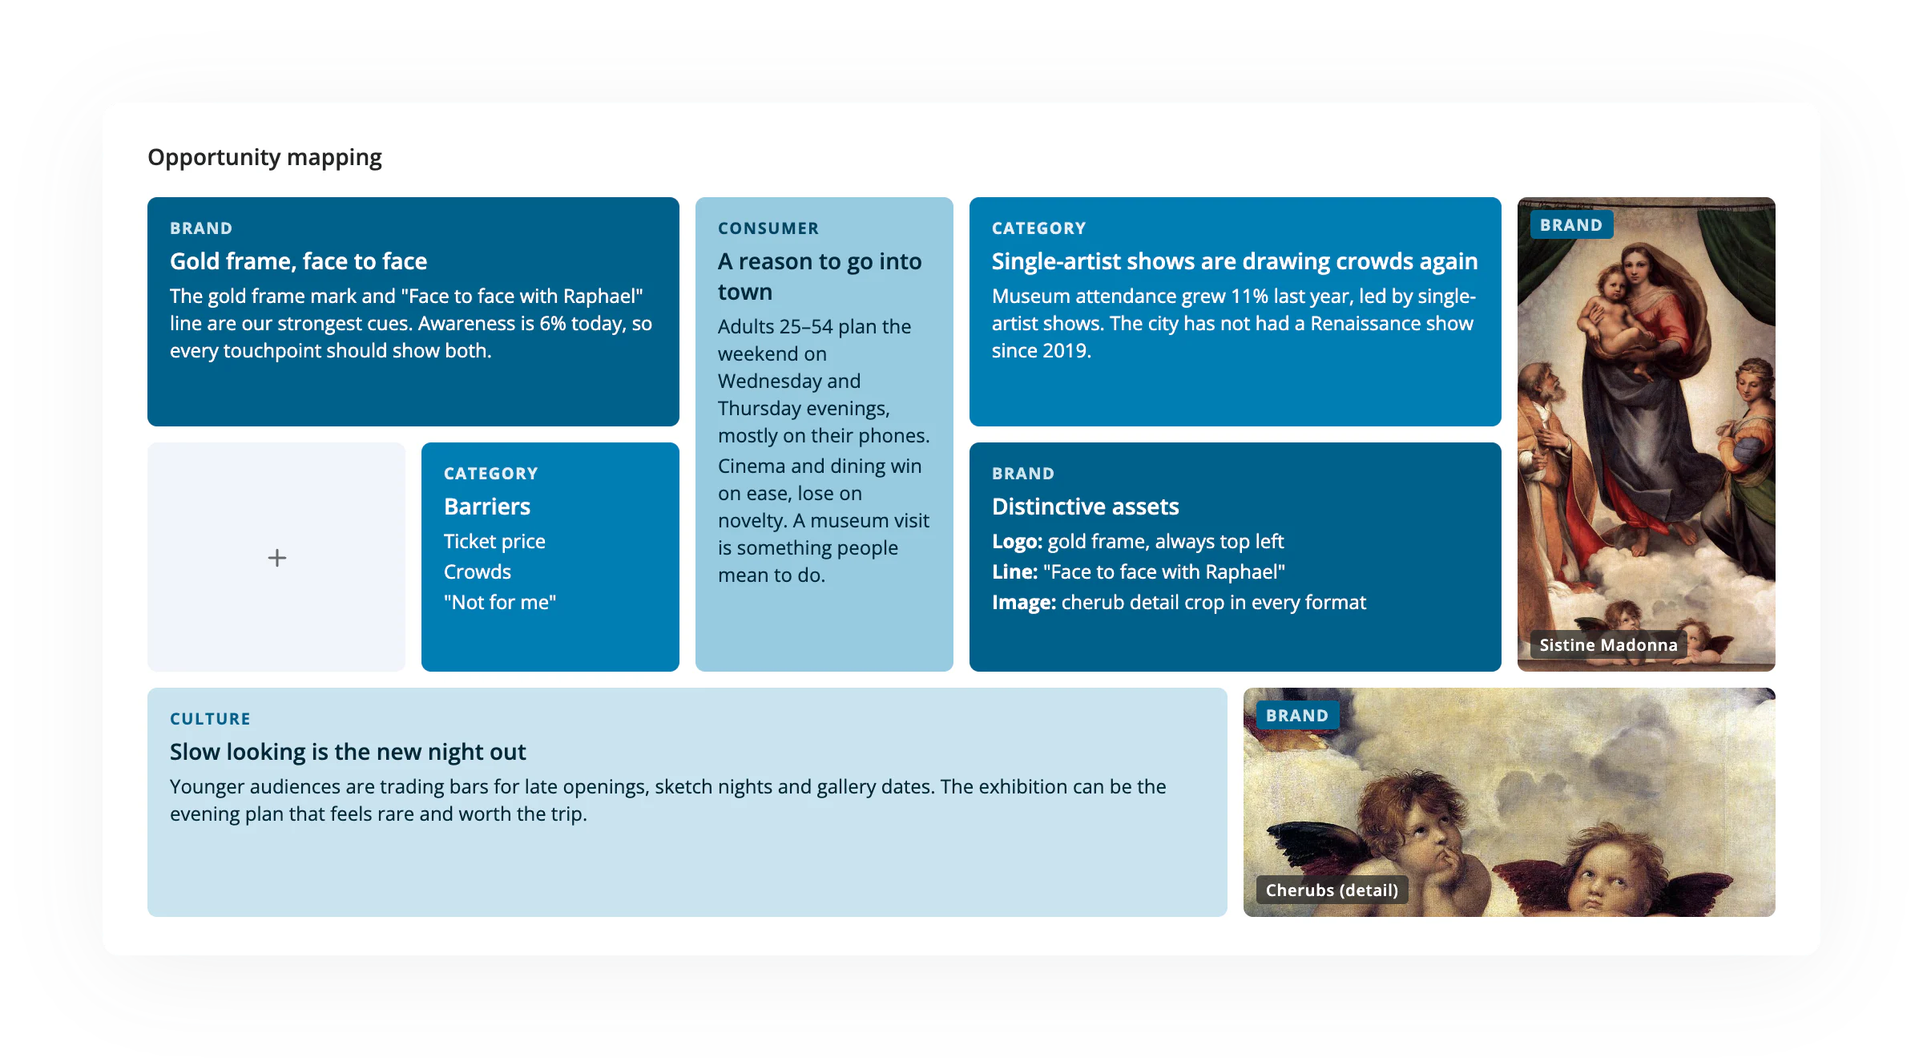
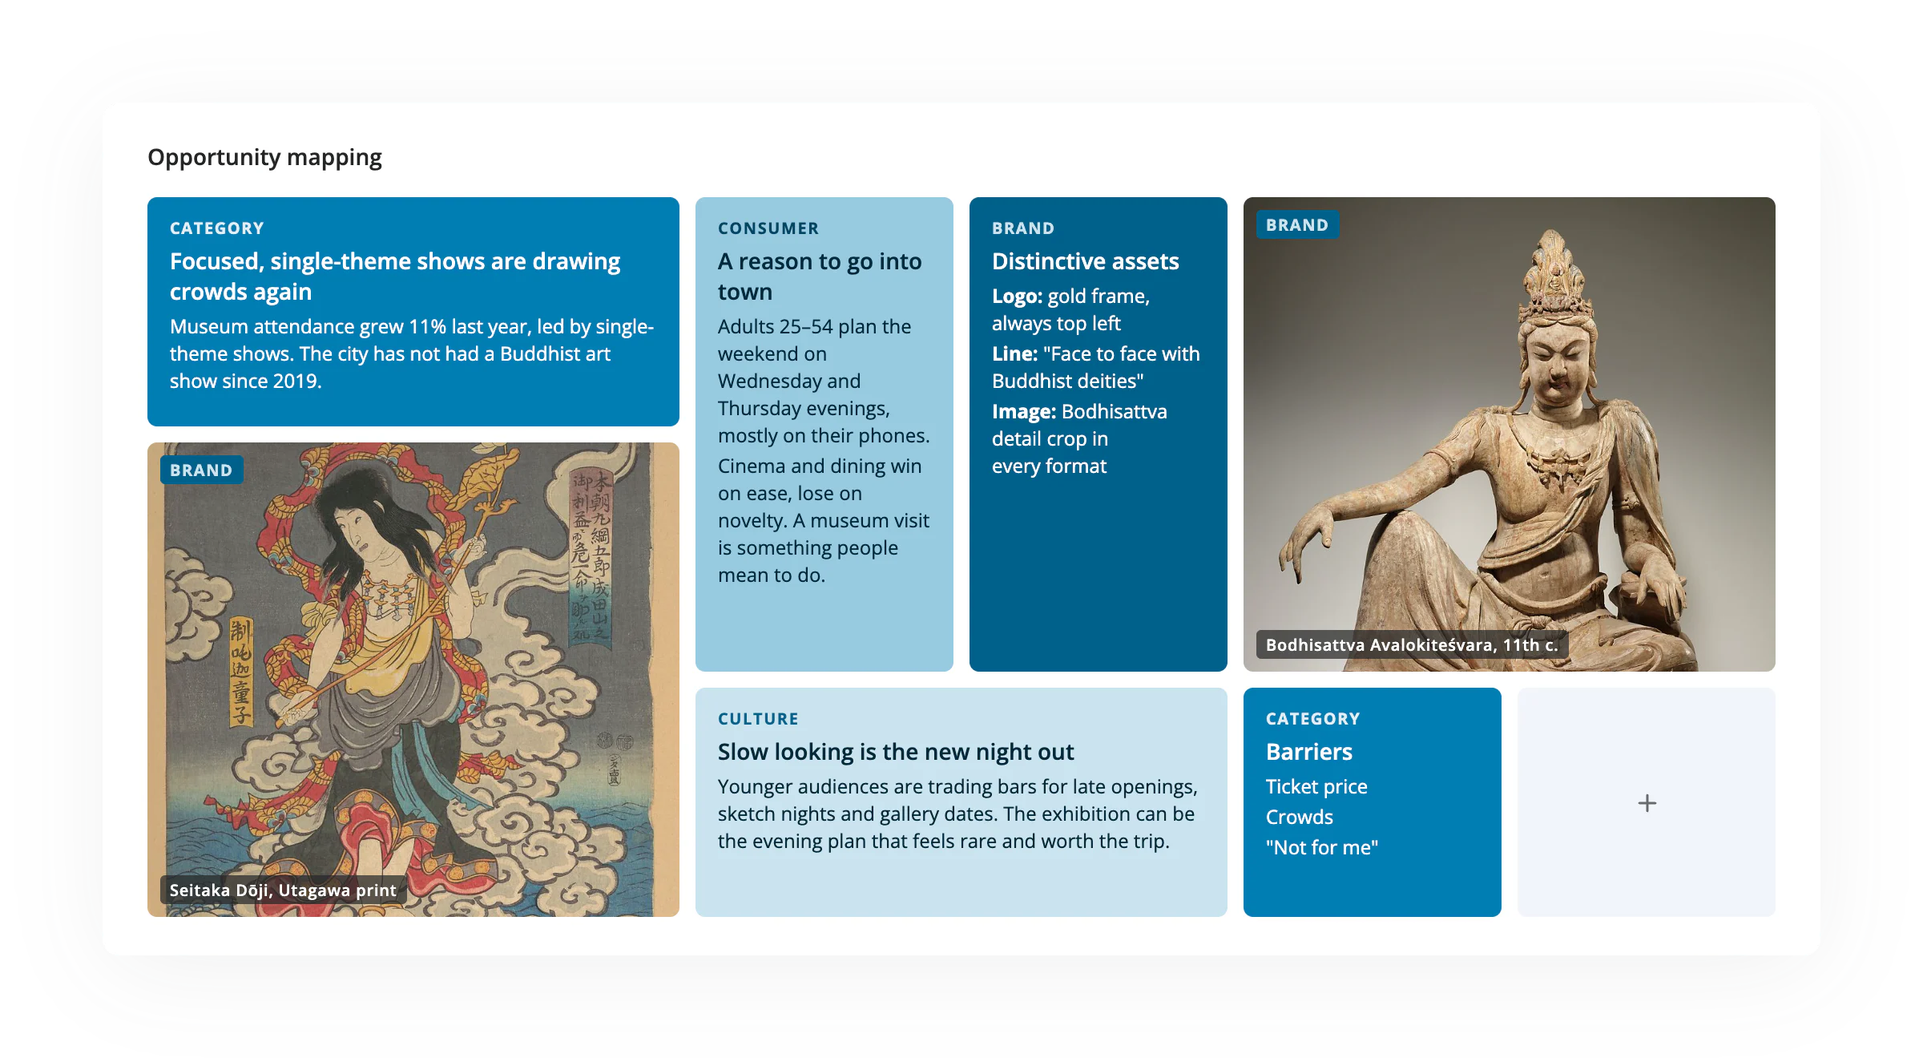
Switch the new client example from a Raphael to a Buddhist art exhibition
Updates the copy in CaseModules and the new-client screens, replaces the
two Opportunity images with the bodhisattva images and rearranges that
grid, and recaptures the screens. Restores the compact formatting of the
attention and opportunity sources and turns off HTML format-on-save so
an editor stops rewriting them.

diff --git a/design/case2-screens/new-client-opportunity.dc.html b/design/case2-screens/new-client-opportunity.dc.html
@@ -12,15 +12,14 @@
 <div style="position:relative;width:100%;height:100%;background:#fff;border-radius:10px;box-shadow:0 10px 60px -5px rgba(59,62,63,.08);overflow:hidden;padding:24px 28px;display:flex;flex-direction:column;gap:16px">
 <span style="font-size:14px;font-weight:600;color:#242526">Opportunity mapping</span>
 <div style="flex:1;min-height:0;display:grid;grid-template-columns:repeat(6,minmax(0,1fr));grid-template-rows:repeat(3,minmax(0,1fr));gap:10px">
-<div style="grid-area:1 / 1 / 2 / 3;background:#00618B;color:#fff;border-radius:6px;padding:12px 14px;display:flex;flex-direction:column;gap:4px;overflow:hidden"><span style="font-size:10px;font-weight:700;letter-spacing:.08em;text-transform:uppercase;color:#CAE4EF">Brand</span><span style="font-size:14px;font-weight:600;line-height:19px">Gold frame, face to face</span><div style="font-size:12px;line-height:17px;text-wrap:pretty;display:flex;flex-direction:column;gap:2px"><span>The gold frame mark and "Face to face with Raphael" line are our strongest cues. Awareness is 6% today, so every touchpoint should show both.</span></div></div>
 <div style="grid-area:1 / 3 / 3 / 4;background:#98CAE0;color:#00293A;border-radius:6px;padding:12px 14px;display:flex;flex-direction:column;gap:4px;overflow:hidden"><span style="font-size:10px;font-weight:700;letter-spacing:.08em;text-transform:uppercase;color:#004563">Consumer</span><span style="font-size:14px;font-weight:600;line-height:19px">A reason to go into town</span><div style="font-size:12px;line-height:17px;text-wrap:pretty;display:flex;flex-direction:column;gap:2px"><span>Adults 25–54 plan the weekend on Wednesday and Thursday evenings, mostly on their phones.</span><span>Cinema and dining win on ease, lose on novelty. A museum visit is something people mean to do.</span></div></div>
-<div style="grid-area:1 / 4 / 2 / 6;background:#007DB3;color:#fff;border-radius:6px;padding:12px 14px;display:flex;flex-direction:column;gap:4px;overflow:hidden"><span style="font-size:10px;font-weight:700;letter-spacing:.08em;text-transform:uppercase;color:#E2EFF5">Category</span><span style="font-size:14px;font-weight:600;line-height:19px">Single-artist shows are drawing crowds again</span><div style="font-size:12px;line-height:17px;text-wrap:pretty;display:flex;flex-direction:column;gap:2px"><span>Museum attendance grew 11% last year, led by single-artist shows. The city has not had a Renaissance show since 2019.</span></div></div>
-<div style="grid-area:1 / 6 / 3 / 7;position:relative;border-radius:6px;overflow:hidden;background:#F1F5FA"><img src="https://commons.wikimedia.org/wiki/Special:FilePath/Raffaello,_madonna_sistina_01.jpg?width=800" alt="Sistine Madonna" style="position:absolute;inset:0;width:100%;height:100%;object-fit:cover;object-position:center 30%"><span style="position:absolute;left:8px;top:8px;padding:2px 6px;border-radius:3px;background:#00618B;color:#CAE4EF;font-size:10px;font-weight:700;letter-spacing:.08em;text-transform:uppercase">Brand</span><span style="position:absolute;left:8px;bottom:8px;padding:2px 6px;border-radius:3px;background:rgba(36,37,38,.7);color:#fff;font-size:10px;font-weight:600;letter-spacing:.04em">Sistine Madonna</span></div>
-<div style="grid-area:2 / 1 / 3 / 2;background:#F1F5FA;border-radius:6px;display:flex;align-items:center;justify-content:center"><svg width="14" height="14" viewBox="0 0 14 14" fill="none" stroke="#686A6C" stroke-width="1.4" stroke-linecap="round"><path d="M7 2v10M2 7h10"></path></svg></div>
-<div style="grid-area:2 / 2 / 3 / 3;background:#007DB3;color:#fff;border-radius:6px;padding:12px 14px;display:flex;flex-direction:column;gap:4px;overflow:hidden"><span style="font-size:10px;font-weight:700;letter-spacing:.08em;text-transform:uppercase;color:#E2EFF5">Category</span><span style="font-size:14px;font-weight:600;line-height:19px">Barriers</span><div style="font-size:12px;line-height:17px;text-wrap:pretty;display:flex;flex-direction:column;gap:2px"><span>Ticket price</span><span>Crowds</span><span>"Not for me"</span></div></div>
-<div style="grid-area:2 / 4 / 3 / 6;background:#00618B;color:#fff;border-radius:6px;padding:12px 14px;display:flex;flex-direction:column;gap:4px;overflow:hidden"><span style="font-size:10px;font-weight:700;letter-spacing:.08em;text-transform:uppercase;color:#CAE4EF">Brand</span><span style="font-size:14px;font-weight:600;line-height:19px">Distinctive assets</span><div style="font-size:12px;line-height:17px;text-wrap:pretty;display:flex;flex-direction:column;gap:2px"><span><span style="font-weight:700">Logo:</span> gold frame, always top left</span><span><span style="font-weight:700">Line:</span> "Face to face with Raphael"</span><span><span style="font-weight:700">Image:</span> cherub detail crop in every format</span></div></div>
-<div style="grid-area:3 / 1 / 4 / 5;background:#CAE4EF;color:#00293A;border-radius:6px;padding:12px 14px;display:flex;flex-direction:column;gap:4px;overflow:hidden"><span style="font-size:10px;font-weight:700;letter-spacing:.08em;text-transform:uppercase;color:#00618B">Culture</span><span style="font-size:14px;font-weight:600;line-height:19px">Slow looking is the new night out</span><div style="font-size:12px;line-height:17px;text-wrap:pretty;display:flex;flex-direction:column;gap:2px"><span>Younger audiences are trading bars for late openings, sketch nights and gallery dates. The exhibition can be the evening plan that feels rare and worth the trip.</span></div></div>
-<div style="grid-area:3 / 5 / 4 / 7;position:relative;border-radius:6px;overflow:hidden;background:#F1F5FA"><img src="https://commons.wikimedia.org/wiki/Special:FilePath/Raffaello,_madonna_sistina_03.jpg?width=800" alt="Cherubs (detail)" style="position:absolute;inset:0;width:100%;height:100%;object-fit:cover;object-position:center 40%"><span style="position:absolute;left:8px;top:8px;padding:2px 6px;border-radius:3px;background:#00618B;color:#CAE4EF;font-size:10px;font-weight:700;letter-spacing:.08em;text-transform:uppercase">Brand</span><span style="position:absolute;left:8px;bottom:8px;padding:2px 6px;border-radius:3px;background:rgba(36,37,38,.7);color:#fff;font-size:10px;font-weight:600;letter-spacing:.04em">Cherubs (detail)</span></div>
+<div style="grid-area:1 / 1 / 2 / 3;background:#007DB3;color:#fff;border-radius:6px;padding:12px 14px;display:flex;flex-direction:column;gap:4px;overflow:hidden"><span style="font-size:10px;font-weight:700;letter-spacing:.08em;text-transform:uppercase;color:#E2EFF5">Category</span><span style="font-size:14px;font-weight:600;line-height:19px">Focused, single-theme shows are drawing crowds again</span><div style="font-size:12px;line-height:17px;text-wrap:pretty;display:flex;flex-direction:column;gap:2px"><span>Museum attendance grew 11% last year, led by single-theme shows. The city has not had a Buddhist art show since 2019.</span></div></div>
+<div style="grid-area:1 / 5 / 3 / 7;position:relative;border-radius:6px;overflow:hidden;background:#F1F5FA"><img src="../../public/Bodhisattva_11thc.jpeg" alt="Bodhisattva Avalokiteśvara, 11th century" style="position:absolute;inset:0;width:100%;height:100%;object-fit:cover;object-position:center 40%"><span style="position:absolute;left:8px;top:8px;padding:2px 6px;border-radius:3px;background:#00618B;color:#CAE4EF;font-size:10px;font-weight:700;letter-spacing:.08em;text-transform:uppercase">Brand</span><span style="position:absolute;left:8px;bottom:8px;padding:2px 6px;border-radius:3px;background:rgba(36,37,38,.7);color:#fff;font-size:10px;font-weight:600;letter-spacing:.04em">Bodhisattva Avalokiteśvara, 11th c.</span></div>
+<div style="grid-area:3 / 6 / 4 / 7;background:#F1F5FA;border-radius:6px;display:flex;align-items:center;justify-content:center"><svg width="14" height="14" viewBox="0 0 14 14" fill="none" stroke="#686A6C" stroke-width="1.4" stroke-linecap="round"><path d="M7 2v10M2 7h10"></path></svg></div>
+<div style="grid-area:3 / 5 / 4 / 6;background:#007DB3;color:#fff;border-radius:6px;padding:12px 14px;display:flex;flex-direction:column;gap:4px;overflow:hidden"><span style="font-size:10px;font-weight:700;letter-spacing:.08em;text-transform:uppercase;color:#E2EFF5">Category</span><span style="font-size:14px;font-weight:600;line-height:19px">Barriers</span><div style="font-size:12px;line-height:17px;text-wrap:pretty;display:flex;flex-direction:column;gap:2px"><span>Ticket price</span><span>Crowds</span><span>"Not for me"</span></div></div>
+<div style="grid-area:1 / 4 / 3 / 5;background:#00618B;color:#fff;border-radius:6px;padding:12px 14px;display:flex;flex-direction:column;gap:4px;overflow:hidden"><span style="font-size:10px;font-weight:700;letter-spacing:.08em;text-transform:uppercase;color:#CAE4EF">Brand</span><span style="font-size:14px;font-weight:600;line-height:19px">Distinctive assets</span><div style="font-size:12px;line-height:17px;text-wrap:pretty;display:flex;flex-direction:column;gap:2px"><span><span style="font-weight:700">Logo:</span> gold frame, always top left</span><span><span style="font-weight:700">Line:</span> "Face to face with Buddhist deities"</span><span><span style="font-weight:700">Image:</span> Bodhisattva detail crop in every format</span></div></div>
+<div style="grid-area:3 / 3 / 4 / 5;background:#CAE4EF;color:#00293A;border-radius:6px;padding:12px 14px;display:flex;flex-direction:column;gap:4px;overflow:hidden"><span style="font-size:10px;font-weight:700;letter-spacing:.08em;text-transform:uppercase;color:#00618B">Culture</span><span style="font-size:14px;font-weight:600;line-height:19px">Slow looking is the new night out</span><div style="font-size:12px;line-height:17px;text-wrap:pretty;display:flex;flex-direction:column;gap:2px"><span>Younger audiences are trading bars for late openings, sketch nights and gallery dates. The exhibition can be the evening plan that feels rare and worth the trip.</span></div></div>
+<div style="grid-area:2 / 1 / 4 / 3;position:relative;border-radius:6px;overflow:hidden;background:#F1F5FA"><img src="../../public/Bodhisattva_utagawa.jpeg" alt="Bodhisattva, Utagawa print" style="position:absolute;inset:0;width:100%;height:100%;object-fit:cover;object-position:center 25%"><span style="position:absolute;left:8px;top:8px;padding:2px 6px;border-radius:3px;background:#00618B;color:#CAE4EF;font-size:10px;font-weight:700;letter-spacing:.08em;text-transform:uppercase">Brand</span><span style="position:absolute;left:8px;bottom:8px;padding:2px 6px;border-radius:3px;background:rgba(36,37,38,.7);color:#fff;font-size:10px;font-weight:600;letter-spacing:.04em">Seitaka Dōji, Utagawa print</span></div>
 </div>
 </div></div>
 </x-dc>

diff --git a/design/case2-screens/new-client-ideation.dc.html b/design/case2-screens/new-client-ideation.dc.html
@@ -13,7 +13,7 @@
 <div style="padding:24px 28px;display:flex;flex-direction:column;gap:18px">
 <span style="font-size:14px;font-weight:600">Campaign brief</span>
 <div style="display:grid;grid-template-columns:1.25fr 1fr;gap:24px">
-<div style="display:flex;flex-direction:column;gap:6px"><span style="display:flex;align-items:center;gap:4px;font-size:12px;font-weight:600;color:#464849">Goal</span><div style="flex:1;background:#fff;border:1px solid #E4E8ED;border-radius:6px;color:#242526;padding:8px 12px;font-size:13px;line-height:19px;text-wrap:pretty">Make the Raphael exhibition the spring show people book early. Only 6% of the city knows it is coming, so we build memory before the March 6 opening, then turn it into ticket sales across the 12-week run.</div></div>
+<div style="display:flex;flex-direction:column;gap:6px"><span style="display:flex;align-items:center;gap:4px;font-size:12px;font-weight:600;color:#464849">Goal</span><div style="flex:1;background:#fff;border:1px solid #E4E8ED;border-radius:6px;color:#242526;padding:8px 12px;font-size:13px;line-height:19px;text-wrap:pretty">Make the Buddhist art exhibition the spring show people book early. Only 6% of the city knows it is coming, so we build memory before the March 6 opening, then turn it into ticket sales across the 12-week run.</div></div>
 <div style="display:grid;grid-template-columns:1fr 1fr;gap:24px">
 <div style="grid-column:1 / -1;display:flex;flex-direction:column;gap:6px"><span style="display:flex;align-items:center;gap:4px;font-size:12px;font-weight:600;color:#464849">Core audience</span><div style="background:#fff;height:36px;display:flex;align-items:center;border:1px solid #E4E8ED;border-radius:6px;color:#242526;padding:0 12px;font-size:13px;line-height:19px">Culture-curious adults 25–54 within 90 minutes of the museum</div></div>
 <div style="display:flex;flex-direction:column;gap:6px"><span style="display:flex;align-items:center;gap:4px;font-size:12px;font-weight:600;color:#464849">Awareness KPI</span><div style="background:#fff;height:36px;display:flex;align-items:center;border:1px solid #E4E8ED;border-radius:6px;color:#242526;padding:0 12px;font-size:13px;line-height:19px">6% → 25% by opening</div></div>
@@ -36,8 +36,8 @@
 <div style="display:flex;align-items:center;gap:16px"><span style="font-size:14px;font-weight:600">Distinctive assets</span><span style="display:flex;align-items:center;gap:6px;height:28px;padding:0 12px;font-size:13px;font-weight:600;color:#00618B;background:#fff;border:1px solid #00618B;border-radius:6px"><svg width="10" height="10" viewBox="0 0 10 10" fill="none" stroke="#00618B" stroke-width="1.5"><path d="M5 1v8M1 5h8"></path></svg>Add asset</span></div>
 <div style="display:flex;flex-wrap:wrap;gap:10px">
 <span style="display:flex;align-items:center;gap:8px;height:32px;padding:0 8px 0 12px;background:#CAE4EF;border:1px solid #CAE4EF;border-radius:6px;font-size:13px;color:#00618B">Gold frame mark<svg width="16" height="16" viewBox="0 0 16 16" fill="none" stroke="#00618B" stroke-width="1.4" stroke-linecap="round"><circle cx="8" cy="8" r="6.5"></circle><path d="M5.8 5.8l4.4 4.4M10.2 5.8l-4.4 4.4"></path></svg></span>
-<span style="display:flex;align-items:center;gap:8px;height:32px;padding:0 8px 0 12px;background:#CAE4EF;border:1px solid #CAE4EF;border-radius:6px;font-size:13px;color:#00618B">"Face to face with Raphael" line<svg width="16" height="16" viewBox="0 0 16 16" fill="none" stroke="#00618B" stroke-width="1.4" stroke-linecap="round"><circle cx="8" cy="8" r="6.5"></circle><path d="M5.8 5.8l4.4 4.4M10.2 5.8l-4.4 4.4"></path></svg></span>
-<span style="display:flex;align-items:center;gap:8px;height:32px;padding:0 8px 0 12px;background:#CAE4EF;border:1px solid #CAE4EF;border-radius:6px;font-size:13px;color:#00618B">Cherub detail crop<svg width="16" height="16" viewBox="0 0 16 16" fill="none" stroke="#00618B" stroke-width="1.4" stroke-linecap="round"><circle cx="8" cy="8" r="6.5"></circle><path d="M5.8 5.8l4.4 4.4M10.2 5.8l-4.4 4.4"></path></svg></span>
+<span style="display:flex;align-items:center;gap:8px;height:32px;padding:0 8px 0 12px;background:#CAE4EF;border:1px solid #CAE4EF;border-radius:6px;font-size:13px;color:#00618B">"Face to face with the Bodhisattva" line<svg width="16" height="16" viewBox="0 0 16 16" fill="none" stroke="#00618B" stroke-width="1.4" stroke-linecap="round"><circle cx="8" cy="8" r="6.5"></circle><path d="M5.8 5.8l4.4 4.4M10.2 5.8l-4.4 4.4"></path></svg></span>
+<span style="display:flex;align-items:center;gap:8px;height:32px;padding:0 8px 0 12px;background:#CAE4EF;border:1px solid #CAE4EF;border-radius:6px;font-size:13px;color:#00618B">Bodhisattva detail crop<svg width="16" height="16" viewBox="0 0 16 16" fill="none" stroke="#00618B" stroke-width="1.4" stroke-linecap="round"><circle cx="8" cy="8" r="6.5"></circle><path d="M5.8 5.8l4.4 4.4M10.2 5.8l-4.4 4.4"></path></svg></span>
 </div></div>
 </div></div>
 </div></div>

diff --git a/design/case2-screens/new-client-channel.dc.html b/design/case2-screens/new-client-channel.dc.html
@@ -44,7 +44,7 @@
 </div>
 <div style="display:flex;flex-direction:column;gap:6px"><span style="display:flex;align-items:center;gap:4px;font-size:12px;font-weight:600;color:#464849">Flight</span><div style="background:#fff;height:36px;display:flex;align-items:center;border:1px solid #E4E8ED;border-radius:6px;color:#242526;padding:0 12px;font-size:13px;line-height:19px">Jan 25 – Mar 5, 2027</div></div>
 <div style="display:flex;flex-direction:column;gap:6px"><span style="display:flex;align-items:center;gap:4px;font-size:12px;font-weight:600;color:#464849">Channel idea</span><div style="background:#fff;border:1px solid #E4E8ED;border-radius:6px;color:#242526;padding:8px 12px;font-size:13px;line-height:19px;text-wrap:pretty">Digital billboards at transit stops and near cinemas and restaurants, Wednesday to Friday evenings, when people plan their weekend. Builds memory with a countdown to the March 6 opening.</div></div>
-<div style="display:flex;flex-direction:column;gap:6px"><span style="display:flex;align-items:center;gap:4px;font-size:12px;font-weight:600;color:#464849">Assets required</span><div style="background:#fff;border:1px solid #E4E8ED;border-radius:6px;color:#242526;padding:8px 12px;font-size:13px;line-height:19px;text-wrap:pretty">Gold frame mark, cherub detail crop and "Face to face with Raphael" line, static and 6s motion.</div></div>
+<div style="display:flex;flex-direction:column;gap:6px"><span style="display:flex;align-items:center;gap:4px;font-size:12px;font-weight:600;color:#464849">Assets required</span><div style="background:#fff;border:1px solid #E4E8ED;border-radius:6px;color:#242526;padding:8px 12px;font-size:13px;line-height:19px;text-wrap:pretty">Gold frame mark, Bodhisattva detail crop and "Face to face with the Bodhisattva" line, static and 6s motion.</div></div>
 </div><div style="margin-top:auto;display:flex;justify-content:flex-end;gap:8px;padding:10px 20px;border-top:1px solid #F1F5FA"><span style="display:flex;align-items:center;height:32px;padding:0 16px;font-size:13px;font-weight:600;color:#00618B;background:transparent;border:1px solid transparent;border-radius:6px">Cancel</span><span style="display:flex;align-items:center;height:32px;padding:0 20px;font-size:13px;font-weight:600;color:#fff;background:#00618B;border:1px solid #00618B;border-radius:6px">Save</span></div></div>
 </div></div>
 </x-dc>

diff --git a/components/CaseModules.tsx b/components/CaseModules.tsx
@@ -67,7 +67,7 @@ const CLIENT_VIEW = {
 function steps(
   front: string,
   prefix: string,
-  mods: [ModuleKey, string][],
+  mods: [ModuleKey, string][]
 ): CaseStep[] {
   return [
     { name: front, ...CLIENT_VIEW },
@@ -85,7 +85,7 @@ const CLIENTS: Record<"new" | "return", Client> = {
   new: {
     label: "Sales' demo",
     eyebrow: "For new client",
-    title: "Raphael exhibition campaign Spring 2027",
+    title: "Buddhist art exhibition campaign Spring 2027",
     desc: "Sales walks a prospective museum client through a sample exhibition campaign, from brief to channel mix.",
     open: 2,
     steps: steps("New client workflow", "new-client", [
@@ -141,12 +141,7 @@ const ARTBOARD = 1384; // the frame's width at the 1440 column
  *  down to the result label's start. The centre comes from the layout rule
  *  (collapsed 84px, open tab takes the rest), so the path lands where the
  *  flex transition ends and CSS animates `d` there. */
-function desktopFlow(
-  w: number,
-  ex: number,
-  n: number,
-  active: number,
-): Curve {
+function desktopFlow(w: number, ex: number, n: number, active: number): Curve {
   const open = w - (n - 1) * TAB;
   const cx = n ? Math.max(active, 0) * TAB + open / 2 : w / 2;
   return [

diff --git a/design/case2-screens/new-client-attention.dc.html b/design/case2-screens/new-client-attention.dc.html
@@ -39,7 +39,7 @@
 </div>
 </sc-for>
 </div>
-<span style="display:flex;justify-content:center;align-items:center;gap:8px;font-size:12px;color:#686A6C">Split of the $4.2M media budget<span>Percentages are rounded so the full budget is allocated.</span></span>
+<span style="display:flex;justify-content:center;align-items:center;gap:8px;font-size:12px;color:#686A6C">Split of the $4.2M media budget</span>
 </div></div>
 </div></div></div>
 </x-dc>

diff --git a/design/case2-screens/return-client-attention.dc.html b/design/case2-screens/return-client-attention.dc.html
@@ -39,7 +39,7 @@
 </div>
 </sc-for>
 </div>
-<span style="display:flex;justify-content:center;align-items:center;gap:8px;font-size:12px;color:#686A6C">Split of the $2.2M fall budget<span>Percentages are rounded so the full budget is allocated.</span></span>
+<span style="display:flex;justify-content:center;align-items:center;gap:8px;font-size:12px;color:#686A6C">Split of the $2.2M budget</span>
 </div></div>
 </div></div></div>
 </x-dc>

diff --git a/design/case2-screens/README.md b/design/case2-screens/README.md
@@ -29,8 +29,8 @@ Each `<name>.dc.html` here makes `public/case2/<name>.webp`:
    images' dimensions and `.mod-figure img` in `app/cases.css` overflows
    the figure by the 64px so the card itself fills it.
 
-The Opportunity screen hotlinks two Raphael paintings (public domain,
-Wikimedia Commons), so capturing it needs a connection. The captured
-image already contains them, so the site doesn't hotlink anything.
+The Opportunity screen shows two bodhisattva images, loaded from
+`public/Bodhisattva_11thc.jpeg` and `public/Bodhisattva_utagawa.jpeg`
+by relative path. The captured image already contains them.
 
 This folder is listed in `.vercelignore`, so deployments leave it out.
